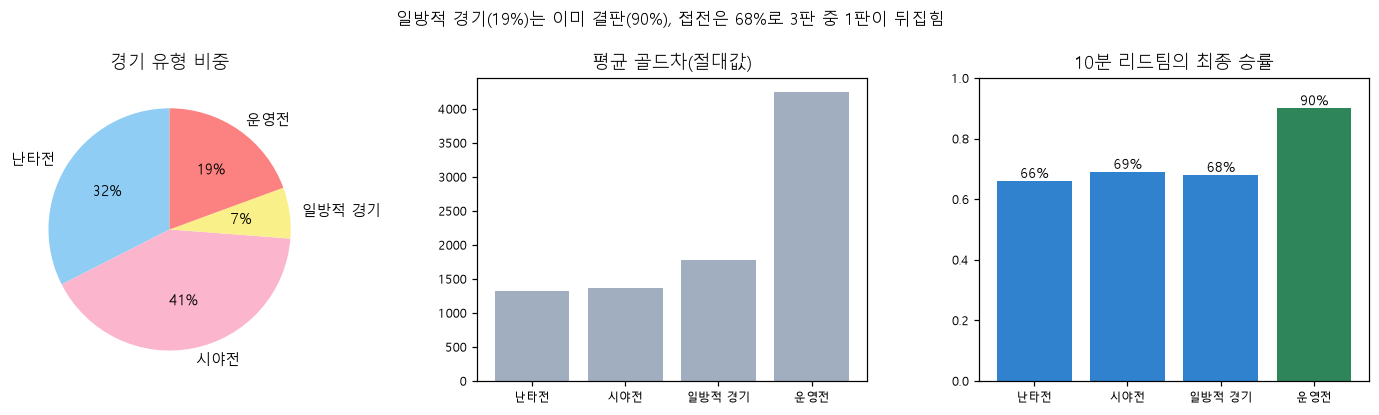
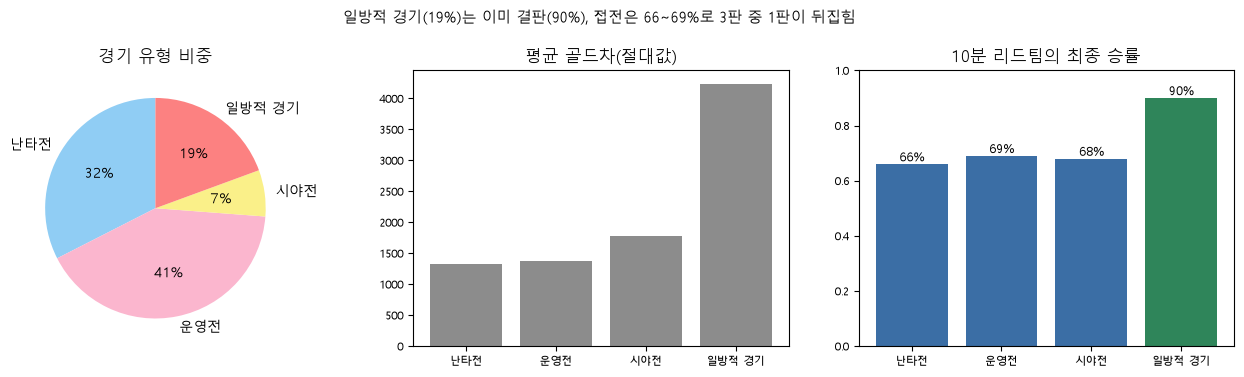
① 평가지표 완료 + viz_3 라벨 버그 수정 + 혼동행렬 글자 이탈 해결
reports/metrics_summary.md (신규)
  - 지표 한 표: 대표값 0.7366±0.0081 · 0.7394 · CV 0.7315±0.0153 · F1/AUC/Brier
    · 찍기 대비 +23.8%p — 값마다 근거 파일 명시
  - 왜 이 지표인가 · 구간별 정확도 · 승리요인 · 실험 B
  - 방어 카드 5장: 접전 0.615 / 세 값의 차이 / 킬 계수 음수 / 왜 로지스틱 / 티어·패치 한정

viz_3_game_types.png 라벨 수정
  {1:운영전, 3:난타전, 0:시야전, 2:일방적} → {0:운영전, 3:난타전, 1:일방적, 2:시야전}
  데이터로 검증: 0=CS최다·킬최소, 3=킬최다, 1=골드차 4240, 2=와드 119개

model_report.ipynb 혼동행렬: 4줄 한 덩어리 → 3단 분리 배치로 칸 이탈 방지

diff --git a/reports/metrics_summary.md b/reports/metrics_summary.md
@@ -1,0 +1,149 @@
+# 평가지표 한 표 — 발표용
+
+**발표에 나가는 모든 숫자와 그 근거 파일.** 질문이 들어오면 이 표에서 답을 찾습니다.
+
+---
+
+## 1. 성능 지표
+
+| 지표 | 값 | 근거 파일 | 한 줄 의미 |
+|---|---|---|---|
+| **대표 정확도** | **0.7366 ± 0.0081** | `reports/repeat_experimentA.csv` | 분할을 10번 바꿔 재학습한 평균. **발표에는 이 값을 쓴다** |
+| 단일 분할 정확도 | 0.7394 | `runs.csv` (`final_logreg_diff13_holdout`) | 시드 42 하나의 값. 위 분포 안의 한 표본 |
+| 교차검증 | 0.7315 ± 0.0153 | `runs.csv` (`logreg_diff13`) | 학습셋을 5조각 내 5번 시험 |
+| 연습−검증 격차 | +0.0022 | `runs.csv` | 0.03 미만이면 외우지 않은 것 |
+| 찍기 기준선 | 0.5010 | `runs.csv` (`baseline_dummy`) | 다수 클래스로만 예측했을 때 |
+| **찍기 대비 개선** | **+23.8%p** | 0.7394 − 0.5010 | 100판 중 24판을 더 맞힌다 |
+| F1 | 0.7352 | `artifacts/schema.json` | 정밀도·재현율의 균형 |
+| AUC | 0.8150 | `artifacts/schema.json` | 순위를 매기는 능력 (0.5=찍기, 1=완벽) |
+| Brier | 0.1756 | `artifacts/schema.json` | 확률 자체의 정확도 (낮을수록 좋음) |
+| 혼동행렬 | TN 746 · FP 244 / FN 271 · TP 715 | `reports/model_report.ipynb` | 틀리는 방향이 대칭 |
+
+> **왜 0.7366을 대표값으로 쓰나** — 0.7394는 데이터를 특정 방식으로 나눴을 때의 값입니다.
+> 나누는 방법을 10번 바꿔보면 0.7277~0.7520 사이에서 움직입니다. 하나만 골라 말하면
+> 운 좋은 값을 고른 셈이 되므로, 평균과 흔들림을 함께 말합니다.
+
+## 2. 왜 이 지표인가
+
+| 질문 | 답 |
+|---|---|
+| 왜 정확도가 1순위인가 | 승패가 50.10 : 49.90으로 거의 반반이고, 어느 쪽으로 틀려도 손해가 같기 때문. 치우친 데이터였다면 F1을 썼을 것 |
+| F1·AUC·Brier는 왜 보조인가 | 정확도가 못 보는 것을 채워준다. F1은 한쪽 클래스만 잘 맞히는 경우, AUC는 임계값과 무관한 순위 능력, Brier는 확률값 자체의 정확도 |
+| 왜 임계값 0.5인가 | 0.40~0.60을 훑어본 결과 0.45~0.50이 평평했고 비용이 대칭이라 기본값 유지. **조정이 불필요함을 확인한 것 자체가 결과** |
+
+## 3. 구간별 정확도 (언제 틀리나)
+
+| 10분 골드 차이 | 경기 수 | 비중 | 정확도 | 근거 |
+|---|---|---|---|---|
+| 접전 (1,000 미만) | 680 | 34.4% | **0.6147** | `reports/day4_error_analysis.csv` |
+| 우세 (1,000~2,500) | 721 | 36.5% | 0.7406 | 〃 |
+| 크게 우세 (2,500~4,200) | 404 | 20.4% | 0.8589 | 〃 |
+| 사실상 결정 (4,200+) | 171 | 8.7% | **0.9474** | 〃 |
+
+## 4. 승리요인
+
+| 순위 | 요인 | 표준화 계수 | permutation | 근거 |
+|---|---|---|---|---|
+| 1 | 골드 차이 | +1.231 | 0.185 | `reports/win_factor_ranking.csv` |
+| 2 | 경험치 차이 | +0.461 | 0.032 | 〃 |
+| 3 | 드래곤 차이 | +0.267 | 0.011 | 〃 |
+
+4위 아래는 permutation이 0 근처(≤0.0001)라 순위가 무의미. 시드 10회 반복에서도 1-2-3위 동일.
+
+## 5. 실험 B (10분 vs 15분)
+
+| 항목 | 값 | 근거 |
+|---|---|---|
+| 10분 → 15분 정확도 | 0.7036 → 0.7561 (**+5.25%p**) | `reports/expB_close_games.csv` |
+| 접전 구간 개선 | 0.6171 → 0.6955 (**+7.8%p**) | 〃 |
+| 크게 우세 구간 개선 | 0.9279 → 0.9279 (**±0.0%p**) | 〃 |
+| 반복 검증 | +4.77 ± 0.89%p, 10/10회 일관 | `reports/repeat_experimentB.csv` |
+
+---
+
+# 방어 카드 5장
+
+발표 후 질문이 나올 지점과 답변입니다.
+
+### ① "접전 정확도 0.615는 너무 낮지 않나요?"
+
+**모델의 한계가 아니라 정보의 한계입니다.**
+
+같은 경기를 15분 시점에서 보면 접전 구간만 정확도가 **7.8%p 오릅니다**(0.617 → 0.696).
+반면 이미 크게 벌어진 경기는 5분을 더 봐도 **전혀 오르지 않습니다**(±0.0%p).
+
+즉 접전 경기는 10분 시점에 아직 승부가 안 갈렸을 뿐이고, 모델을 바꾼다고 해결될 문제가 아닙니다.
+실제로 이 한계를 `model_card.md`에 "접전 구간 확률은 참고만 할 것"으로 명시했고,
+서비스 화면에도 경고가 뜨도록 구현했습니다.
+
+**근거**: `reports/expB_close_games.csv` · `reports/day4_error_analysis.csv`
+
+### ② "0.7394 · 0.7366 · 0.7136 왜 다 다른가요?"
+
+**데이터를 나눈 방법이 다릅니다. 셋 다 맞는 값입니다.**
+
+| 값 | 무엇 |
+|---|---|
+| 0.7394 | 시드 42로 나눈 특정 분할 하나의 결과 |
+| **0.7366 ± 0.0081** | 분할을 10번 바꿔 재학습한 **평균 — 대표값** |
+| 0.7136 | 행 정렬을 안 했을 때 나온 다른 분할의 값 |
+
+`train_test_split`은 시드가 같아도 **입력 행 순서가 다르면 다르게 나눕니다.**
+DB는 `gameId` 순으로 읽는데 CSV는 정렬 없이 읽어서 같은 시드에 다른 분할이 만들어졌습니다.
+정렬을 통일해 해결했고, 재현성 규약에 "행 정렬 고정"을 8번째 항목으로 추가했습니다.
+
+이 경험 때문에 **대표값을 단일 분할이 아닌 반복 분포로 보고**하기로 정했습니다.
+
+### ③ "킬 계수가 음수면 킬을 하면 진다는 뜻인가요?"
+
+**아닙니다. 킬은 이미 골드에 반영돼 있습니다.**
+
+- 킬만 따로 보면 승패를 잘 가릅니다 — 효과크기 **1.09로 13개 중 3위**
+- 그런데 킬을 하면 돈을 받으므로 킬의 가치가 **골드 차이 안에 이미 들어가 있습니다** (둘의 상관 **+0.92**)
+- 골드를 이미 아는 모델에게 킬은 새로 알려줄 것이 없어, 남은 몫의 부호가 음수(−0.11)로 나옵니다
+
+정확한 해석은 **"킬은 돈으로 환산됐을 때만 의미가 있다"** 입니다.
+복기할 때도 "싸움을 이겼나"보다 **"그 싸움이 돈 격차로 이어졌나"** 를 봐야 합니다.
+
+그래서 사용자 화면에는 계수가 아니라 **효과크기 순위**를 씁니다. 계수를 그대로 보여주면
+"킬하면 진다"는 잘못된 결론이 나오기 때문입니다.
+
+**근거**: `docs/data_analysis.md` 3장 (효과크기 표)
+
+### ④ "왜 로지스틱 회귀인가요? 더 좋은 모델도 많은데."
+
+**8종을 같은 조건에서 비교했고, 복잡한 모델일수록 점수가 낮았습니다.**
+
+| 모델 | 교차검증 | 연습−검증 격차 |
+|---|---|---|
+| **로지스틱 회귀** | **0.7280** | **+0.0039** |
+| 랜덤포레스트 | 0.7248 | +0.2752 (연습 1.0000) |
+| HistGradientBoosting | 0.7140 | +0.1387 |
+
+랜덤포레스트는 연습 점수가 **만점(1.0000)** 인데 검증에서 떨어집니다. 외운 것이지 배운 게 아닙니다.
+
+그리고 결정적으로, **로지스틱만 "왜 그렇게 예측했는지"를 숫자로 보여줍니다.**
+이 프로젝트의 목표가 "왜까지 설명"이라 점수가 비슷하면 설명되는 쪽이 맞습니다.
+
+**튜닝도 하지 않았습니다** — 골드차 1개만 넣어도 0.7313, 2개면 0.7328로 전체와 거의 같습니다.
+정보가 두 지표에 몰려 있어 하이퍼파라미터를 조정해도 짜낼 것이 없습니다.
+
+### ⑤ "다른 티어나 최신 패치에도 쓸 수 있나요?"
+
+**쓸 수 없습니다.** 세 가지 이유로 한정됩니다.
+
+1. **티어** — 다이아몬드 랭크 데이터로만 학습했습니다. 낮은 티어는 경기 양상이 다릅니다.
+2. **패치** — 데이터 수집 시점(시즌 10 초반)의 게임 버전 결과입니다. 드래곤 효과나 골드 획득량이 바뀌면 다시 학습해야 합니다.
+3. **프로 경기** — 실험 B는 프로 경기 결과라 일반 랭크에 그대로 적용할 수 없습니다.
+
+다만 **다시 학습하는 절차는 그대로 남겼습니다.** 새 데이터를 같은 형식으로 넣고
+`python src/finalize_model.py` 한 줄이면 재학습됩니다. 이 한계는 `model_card.md`의
+"사용 금지 상황 6가지"에 명시돼 있습니다.
+
+---
+
+## 검증 상태
+
+```bash
+python src/factcheck.py     # 문서 숫자와 실제 결과가 어긋나는지 자동 점검 → 0건이어야 정상
+```
